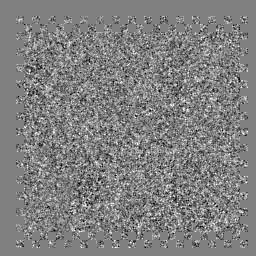
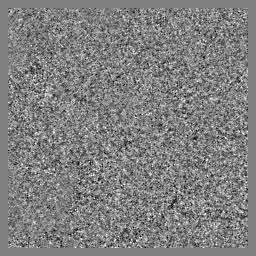
Draw every block inside the crop's outer ring given the neighbours it has, and note how eq. (29) centres its PMF

diff --git a/assets/js/ns/maths.js b/assets/js/ns/maths.js
@@ -351,10 +351,13 @@ export const GIVEN = { 1: [0], 2: [0, 5, 6, 7, 8], 3: [0, 1, 2, 3, 4], 4: [0, 1,
 // coefficient is the DCT of the luminance ×4. Each coefficient is drawn
 // around the cover's own, c + m, so the PMF is over the integer the file
 // stores, as the paper's code gets by rounding cover + signal; eq. (29), as
-// printed, centres it on the signal's mean alone. A block is drawn only if every neighbour it needs was; the
-// others stay null. Returns, per block, the stego signal s (the draw less
-// the cover) and the integers stored, round((c + s) / q); the bits they
-// carry; and the bits per block of each lattice.
+// printed, centres it on the signal's mean alone. Every block but the outer
+// ring is drawn, given those of its lattice's neighbours that were: next to
+// the ring, the ones on it never are, and are left out of its law. The ring
+// stays null. Returns, per block, the stego signal s (the draw less the
+// cover) and the integers stored, round((c + s) / q); the bits they carry;
+// and the bits per block of each lattice, over the blocks drawn with all
+// their neighbours.
 export function embed(raw, B, vOf, steps, K, rand) {
   const nc = 8 * B + 2;
   const M = photositesToDct(3);
@@ -368,13 +371,14 @@ export function embed(raw, B, vOf, steps, K, rand) {
     for (let bi = 1; bi < B - 1; bi++) {
       for (let bj = 1; bj < B - 1; bj++) {
         if (lattice(bi, bj) !== L) continue;
-        const known = GIVEN[L].slice(1).map(p => blocks[(bi + AROUND[p][0]) * B + bj + AROUND[p][1]]);
-        if (known.some(b => !b)) continue;
+        const at = p => blocks[(bi + AROUND[p][0]) * B + bj + AROUND[p][1]];
+        const have = GIVEN[L].filter((p, n) => n === 0 || at(p));
+        const known = have.slice(1).map(at);
         for (let i = 0; i < 26; i++) {
           for (let j = 0; j < 26; j++) v[i * 26 + j] = Math.max(0, vOf(raw[((bi - 1) * 8 + i) * nc + (bj - 1) * 8 + j]));
         }
         const S = covariance(M, v);
-        const idx = GIVEN[L].flatMap(p => Array.from({ length: 64 }, (_, t) => p * 64 + t));
+        const idx = have.flatMap(p => Array.from({ length: 64 }, (_, t) => p * 64 + t));
         const n = idx.length;
         const Ss = new Float64Array(n * n);
         for (let a = 0; a < n; a++) for (let b = 0; b < n; b++) Ss[a * n + b] = S[idx[a] * 576 + idx[b]] + (a === b ? 1e-3 : 0);
@@ -389,7 +393,7 @@ export function embed(raw, B, vOf, steps, K, rand) {
         blocks[bi * B + bj] = Float64Array.from(draw, (d, t) => d.x - c[t]);
         ints[bi * B + bj] = Int32Array.from(draw, d => d.k);
         const h = draw.reduce((a, d) => a + d.h, 0);
-        perLattice[L].push(h);
+        if (have.length === GIVEN[L].length) perLattice[L].push(h);
         bits += h;
       }
     }

diff --git a/assets/js/ns/fig-lattices.js b/assets/js/ns/fig-lattices.js
@@ -9,9 +9,10 @@
 // with the bits a block of each lattice carries.
 
 // Bits a block, by lattice, on a flat grey patch (6000 DN, QF 100, K = 5):
-// maths.embed over 16×16 blocks, seed 3. Two seconds to work out, so
-// written here; tools/ns-check.mjs works them out again and holds them to it.
-export const BITS = { 1: 65.8, 2: 64.5, 3: 47.4, 4: 42.9 };
+// maths.embed over 16×16 blocks, seed 3, the blocks drawn with all their
+// neighbours. Seconds to work out, so written here; tools/ns-check.mjs works
+// them out again and holds them to it.
+export const BITS = { 1: 65.8, 2: 64.6, 3: 46.9, 4: 43.1 };
 
 const STEPS = 5;
 const ROWS = 8;

diff --git a/_posts/2026-10-05-natural-steganography-jpeg.md b/_posts/2026-10-05-natural-steganography-jpeg.md
@@ -9,7 +9,7 @@ Two photographs of the same piece of cloth. One was taken at ISO 200. The other 
 
 <figure class="ns-inline l-page" data-fig="hook" data-quiet>
 <div class="ns-canvas"></div>
-<figcaption>A 256×256 crop of the Z CAM E1 RAW files that come with the paper's code, developed (bilinear demosaicking, then luminance) and put through a JPEG round trip at quality 100: DCT, rounding to the quantisation steps, inverse DCT, then shown through the same tone curve. The loupe shows the same spot in every view. A block is drawn only once the neighbours it depends on are, so near the edges, where some fall outside the crop, a frame up to four blocks deep is left as it was: 759 of the 1,024 blocks are drawn.</figcaption>
+<figcaption>A 256×256 crop of the Z CAM E1 RAW files that come with the paper's code, developed (bilinear demosaicking, then luminance) and put through a JPEG round trip at quality 100: DCT, rounding to the quantisation steps, inverse DCT, then shown through the same tone curve. The loupe shows the same spot in every view. The outer ring of blocks, whose neighbours fall outside the crop, is left as it was; the blocks next to it are drawn given the neighbours they have: 900 of the 1,024.</figcaption>
 </figure>
 
 <div class="ns-byline wide-page l-page">
@@ -187,7 +187,7 @@ The reference code also ships a rejection sampler, the class `RJ`, which this pa
 Take two DCT coefficients whose noise moves together, with a correlation $\rho$. Their joint law is a Gaussian, drawn here as an ellipse. The grid is the JPEG quantisation: one square for each pair of integers the file can store.
 </div>
 <div class="ns-step" markdown="1">
-The first coefficient is drawn from its own law. Quantised, that law becomes a handful of probabilities, one per integer: the PMF of eq. (29). An integer is picked from it. Then a continuous value that rounds to that integer is found again by *rejection*: draw from the Gaussian, keep the first value that lands in the right square.
+The first coefficient is drawn from its own law. Quantised, that law becomes a handful of probabilities, one per integer: the PMF of eq. (29).[^eq29] An integer is picked from it. Then a continuous value that rounds to that integer is found again by *rejection*: draw from the Gaussian, keep the first value that lands in the right square.
 </div>
 <div class="ns-step" markdown="1">
 The second is drawn knowing the first. Its law is still Gaussian, but slid to $\rho\,s_1$ and narrowed to $\sqrt{1-\rho^2}$: the Schur complement, at the size of a $2\times2$ matrix. Same routine: PMF, integer, rejection.
@@ -248,7 +248,7 @@ At QF 100, J-Cov-NS has room for 2 bits per non-zero AC coefficient on average, 
 
 The other points are other ways of drawing the stego signal, all from the paper's Table I. *Pseudo-embedding* adds the noise on the photosites and develops the result, as a camera would. It carries no message, but it is the reference for what the noise should look like, and J-Cov-NS matches it. *Covariance scaling*, our earlier scheme{% include ns-cite.html key="taburet2019ei" %}, estimated $\Sigma$ once on a flat picture and scaled it by each block's average colour: good enough at QF 85 and 75, caught far more often at 100 and 95. Coefficients drawn independently, from histograms learnt mode by mode{% include ns-cite.html key="denemark2018" %}, and blocks drawn independently with their inner correlations kept, are both caught every time at QF 100. Against SRNet{% include ns-cite.html key="boroumand2019" %}, a deep detector, J-Cov-NS still keeps 31 to 37 %.
 
-In bits per pixel, J-Cov-NS carries about 0.45 at QF 100 and 0.2 at QF 95 on E1Base (the paper's Fig. 13a, read off the plot): some 15 KB in a 512×512 picture at QF 100, and 6.5 KB at QF 95. The crop at the top of this page could carry about 5 KB in 256×256 pixels, more per pixel than E1Base's average. At the crop's rate, 0.6 bit per pixel, a 16-megapixel photograph would carry over a megabyte; that is an extrapolation, not a measurement.
+In bits per pixel, J-Cov-NS carries about 0.45 at QF 100 and 0.2 at QF 95 on E1Base (the paper's Fig. 13a, read off the plot): some 15 KB in a 512×512 picture at QF 100, and 6.5 KB at QF 95. The crop at the top of this page could carry almost 6 KB in 256×256 pixels, more per pixel than E1Base's average. At the crop's rate, 0.7 bit per pixel, a 16-megapixel photograph would carry over a megabyte; that is an extrapolation, not a measurement.
 
 The alphabet has to be wide enough as well. Each coefficient is drawn among the $2K+1$ integers around the centre of its law; with $K = 1$, too few to follow the tails of the Gaussian, the detector catches J-Cov-NS at QF 100 99 times out of 100. With $K = 5$ it is back to 40 %.
 
@@ -273,3 +273,5 @@ The paper{% include ns-cite.html key="taburet2020" %} has what this article leav
 {% include ns-appendix.html %}
 
 [^dark]: Where $(a_2 - a_1)\,x + b_2 - b_1$ would be negative, in the darkest parts of the picture, the paper sets the variance to 0: nothing is added there, and nothing can be carried.
+
+[^eq29]: Eq. (29) centres these probabilities on the stego signal's mean alone, as if the cover's coefficient sat on a quantisation step. This page centres them on the cover's coefficient plus that mean: the law of the integer the file stores, which is also what the paper's code gets by rounding the cover plus the signal. Where the cover's coefficient falls between two steps, that integer is less certain, and carries more: on the crop at the top of this page, 4.5 % more bits at QF 100 and 20 % more at QF 95.
